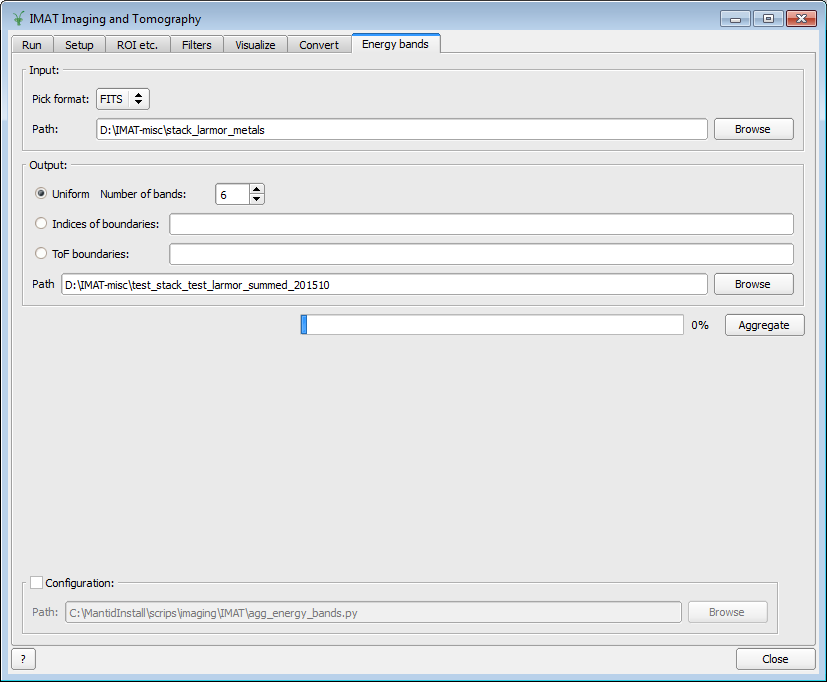
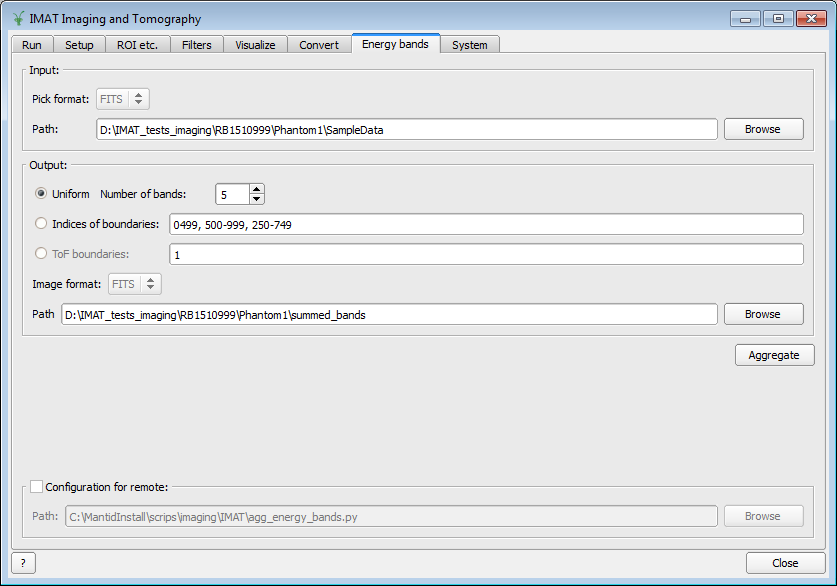
update screenshot, better factory defaults in some fields, re #13467

Changed region(s): [[0.0, 0.0, 1.0, 0.6143], [0.0, 0.8294, 0.9976, 1.0]]

diff --git a/MantidQt/CustomInterfaces/src/Tomography/EnergyBandsViewQtGUI.cpp b/MantidQt/CustomInterfaces/src/Tomography/EnergyBandsViewQtGUI.cpp
@@ -29,9 +29,9 @@ void TomographyIfaceViewQtGUI::readSettingsEnergy() {
   m_uiTabEnergy.spinBox_uniform_bands->setValue(
       qs.value("uniform-bands-value", 1).toInt());
   m_uiTabEnergy.lineEdit_index_ranges->setText(
-      qs.value("index-ranges-value", 1).toString());
+      qs.value("index-ranges-value", "").toString());
   m_uiTabEnergy.lineEdit_tof_ranges->setText(
-      qs.value("tof-ranges-value", 1).toString());
+      qs.value("tof-ranges-value", "").toString());
 
   m_uiTabEnergy.comboBox_input_format->setCurrentIndex(
       qs.value("input-image-format", 0).toInt());

diff --git a/MantidQt/CustomInterfaces/inc/MantidQtCustomInterfaces/Tomography/ITomographyIfaceView.h b/MantidQt/CustomInterfaces/inc/MantidQtCustomInterfaces/Tomography/ITomographyIfaceView.h
@@ -326,7 +326,7 @@ public:
    * Get parameters for wavelength/energy bands aggregation. Provides
    * all the parameters needed to run the aggregation algorithm.
    *
-   * @param return parameters for an algorithm, as key-value strings
+   * @return parameters for an algorithm, as key-value strings
    * for every required parameter and optinal parameter set to
    * non-default values.
    */
